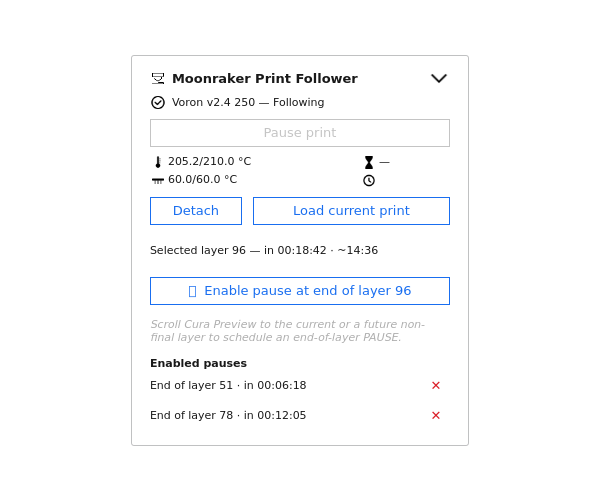
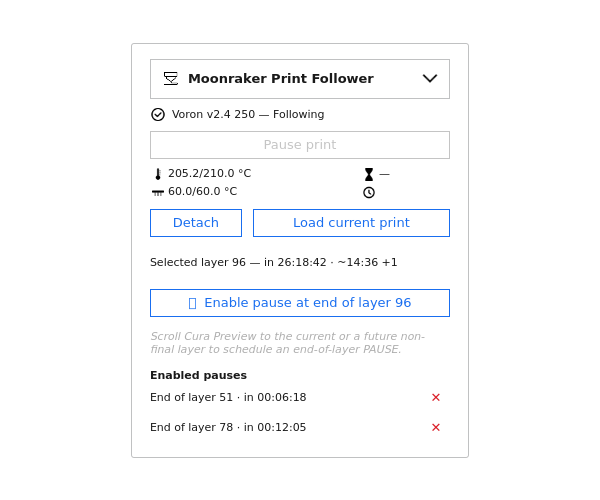
Refresh 5.3.0 screenshots and cover motion guard failures

diff --git a/tests/test_physical_motion.py b/tests/test_physical_motion.py
@@ -139,6 +139,54 @@ class PhysicalMotionTests(unittest.TestCase):
         emitted = float(script.split('G1 X')[1].split()[0])
         self.assertLessEqual(emitted, values['toolhead']['axis_maximum'][0])
 
+    def test_absent_state_configuration_and_invalid_limits_fail_closed(self):
+        for status in (None, [], 'unavailable'):
+            with self.subTest(status=status), self.assertRaisesRegex(UnsafeMotion, 'Fresh printer state'):
+                envelope(status)
+        for config in (None, [], 'malformed'):
+            values = state()
+            values['configfile']['config'] = config
+            with self.subTest(config=config), self.assertRaisesRegex(UnsafeMotion, 'Printer configuration'):
+                envelope(values)
+        for axis in range(3):
+            values = state()
+            values['toolhead']['axis_maximum'][axis] = values['toolhead']['axis_minimum'][axis]
+            with self.subTest(axis=axis), self.assertRaisesRegex(UnsafeMotion, 'Invalid printer travel limits'):
+                envelope(values)
+
+    def test_axis_mapping_and_mixed_coordinate_frames_fail_closed(self):
+        for mapping in ([], {'X': 1, 'Y': 0, 'Z': 2}, {'X': 0, 'Y': 1}):
+            values = state()
+            values['gcode_move']['axis_map'] = mapping
+            with self.subTest(mapping=mapping), self.assertRaisesRegex(UnsafeMotion, 'axis mapping'):
+                envelope(values)
+        values = state()
+        values['gcode_move']['axis_map'] = {'X': 0, 'Y': 1, 'Z': 2}
+        self.assertEqual(envelope(values).position, (100, 100, 10))
+        for axis in range(3):
+            values = state()
+            values['toolhead']['position'][axis] += .1
+            with self.subTest(axis=axis), self.assertRaisesRegex(UnsafeMotion, 'coordinates do not agree'):
+                envelope(values)
+
+    def test_missing_or_malformed_mesh_cannot_authorize_position_moves(self):
+        for mesh in (None, {}, [], {'mesh_matrix': None}, {'mesh_matrix': []},
+                     {'mesh_matrix': [[0, 0]]}, {'mesh_matrix': [[0, 0], [0]]},
+                     {'mesh_matrix': [[0, 0], 'bad']}):
+            values = state(mesh=[[0, 0], [0, 0]])
+            values['bed_mesh'] = mesh
+            with self.subTest(mesh=mesh), self.assertRaises(UnsafeMotion):
+                envelope(values)
+        # Klipper publishes one empty row when compensation is cleared.
+        cleared = envelope(state(mesh=[[]]))
+        self.assertEqual((cleared.compensation_min, cleared.compensation_max, cleared.bed), (0, 0, 0))
+
+    def test_center_uses_physical_midpoint_and_z_zero_uses_gcode_coordinates(self):
+        values = state(base=(10, 20, 5))
+        self.assertIn('G90\nG1 X90 Y80 Z45 F600', prepare(JogOp(kind='center'), values))
+        self.assertIn('G90\nG1 Z0 F600', prepare(JogOp(kind='z0'), values))
+        self.assertEqual(prepare(JogOp(kind='home', script='G28'), None), 'G28')
+
 
 
 if __name__ == '__main__':

diff --git a/tests/test_preview_toolhead_readout.py b/tests/test_preview_toolhead_readout.py
@@ -54,6 +54,14 @@ class ToolheadReadoutTests(unittest.TestCase):
         self.assertEqual([values['position' + a] for a in 'XYZ'], ['—'] * 3)
         self.assertEqual([r['key'] for r in values['actionRows']], ['motors'])
 
+    def test_malformed_numbers_show_absent_readings_without_losing_valid_axes(self):
+        for invalid in (None, 'not a number', {}, 10 ** 400):
+            with self.subTest(invalid=invalid):
+                values = MODULE.readout(self.snapshot((invalid, 2.5, 3.75), (0, 0, invalid)), True, '')
+                self.assertEqual([values['position' + a] for a in 'XYZ'], ['—', '2.50', '3.75'])
+                self.assertEqual(values['offsetText'], '—')
+                self.assertEqual(values['statusText'], 'Unknown')
+
 
 if __name__ == '__main__':
     unittest.main()

diff --git a/docs/TESTING.md b/docs/TESTING.md
@@ -47,6 +47,27 @@ No live printer command was used. Branch CI, native Windows/Linux checks and
 the disposable real-Cura release gate remain subsequent validation; local
 fixtures are not a substitute for those checks.
 
+On 7 October 2026, the final release-preparation native `make all JOBS=2` passed
+5,368 tests in 220 isolated processes, shader compilation, all nine lint
+checks, 29 screenshot scenes, 46 byte-identical light/dark capture pairs
+(zero native rounding exceptions), and exact package/source parity for
+both 5.3.0 archives. The final capture-tooling lint also passed.
+
+Canonical committed screenshots came from the pinned amd64 Linux container
+in branch CI run `37672052512`, at source commit
+`6b3d8e9727333e13fa4937674d0ee18dc9e58754`. All 29 promoted PNGs match the
+downloaded render bytes, and both light/dark repeatability pairs passed.
+The expanded pane appears in the README in both themes, alongside printing
+and disconnected states; collapsed captures remain validation fixtures.
+The developer's stopped Colima service was left untouched.
+
+The initial CI coverage gate identified two new modules just below the
+95% per-file floor. Additional invented-telemetry tests exercise missing
+configuration, malformed mesh, invalid axis mappings, mixed coordinate
+frames, center/Z-zero intent and malformed readout numbers. Focused isolated
+coverage now measures 100% of statements in both `PhysicalMotion.py` and
+`ToolheadReadout.py`; no product behavior changed for this coverage repair.
+
 ## 5.2.0 — historical validation
 
 Version 5.2.0 adds custom STL/STEP toolheads, True position/Smooth path modes, a

diff --git a/README.md b/README.md
@@ -900,12 +900,10 @@ supported levelling and motor controls.
 
 ![Preview Toolhead pane during printing](screenshots/17-preview-toolhead-printing.png)
 ![Preview Toolhead pane disconnected](screenshots/18-preview-toolhead-disconnected.png)
-![Collapsed Preview Toolhead tab](screenshots/16-preview-toolhead-collapsed.png)
 
 During printing, position moves and homing are disabled while Z-offset
 calibration remains available. A disconnected pane retains its layout with
-unavailable readouts and disabled controls. Collapse leaves a nozzle icon and
-right-pointing expansion arrow.
+unavailable readouts and disabled controls.
 
 ![Stealthburner with amber nozzle lights and purple logo lights](screenshots/13-toolhead-lighting.png)
 
